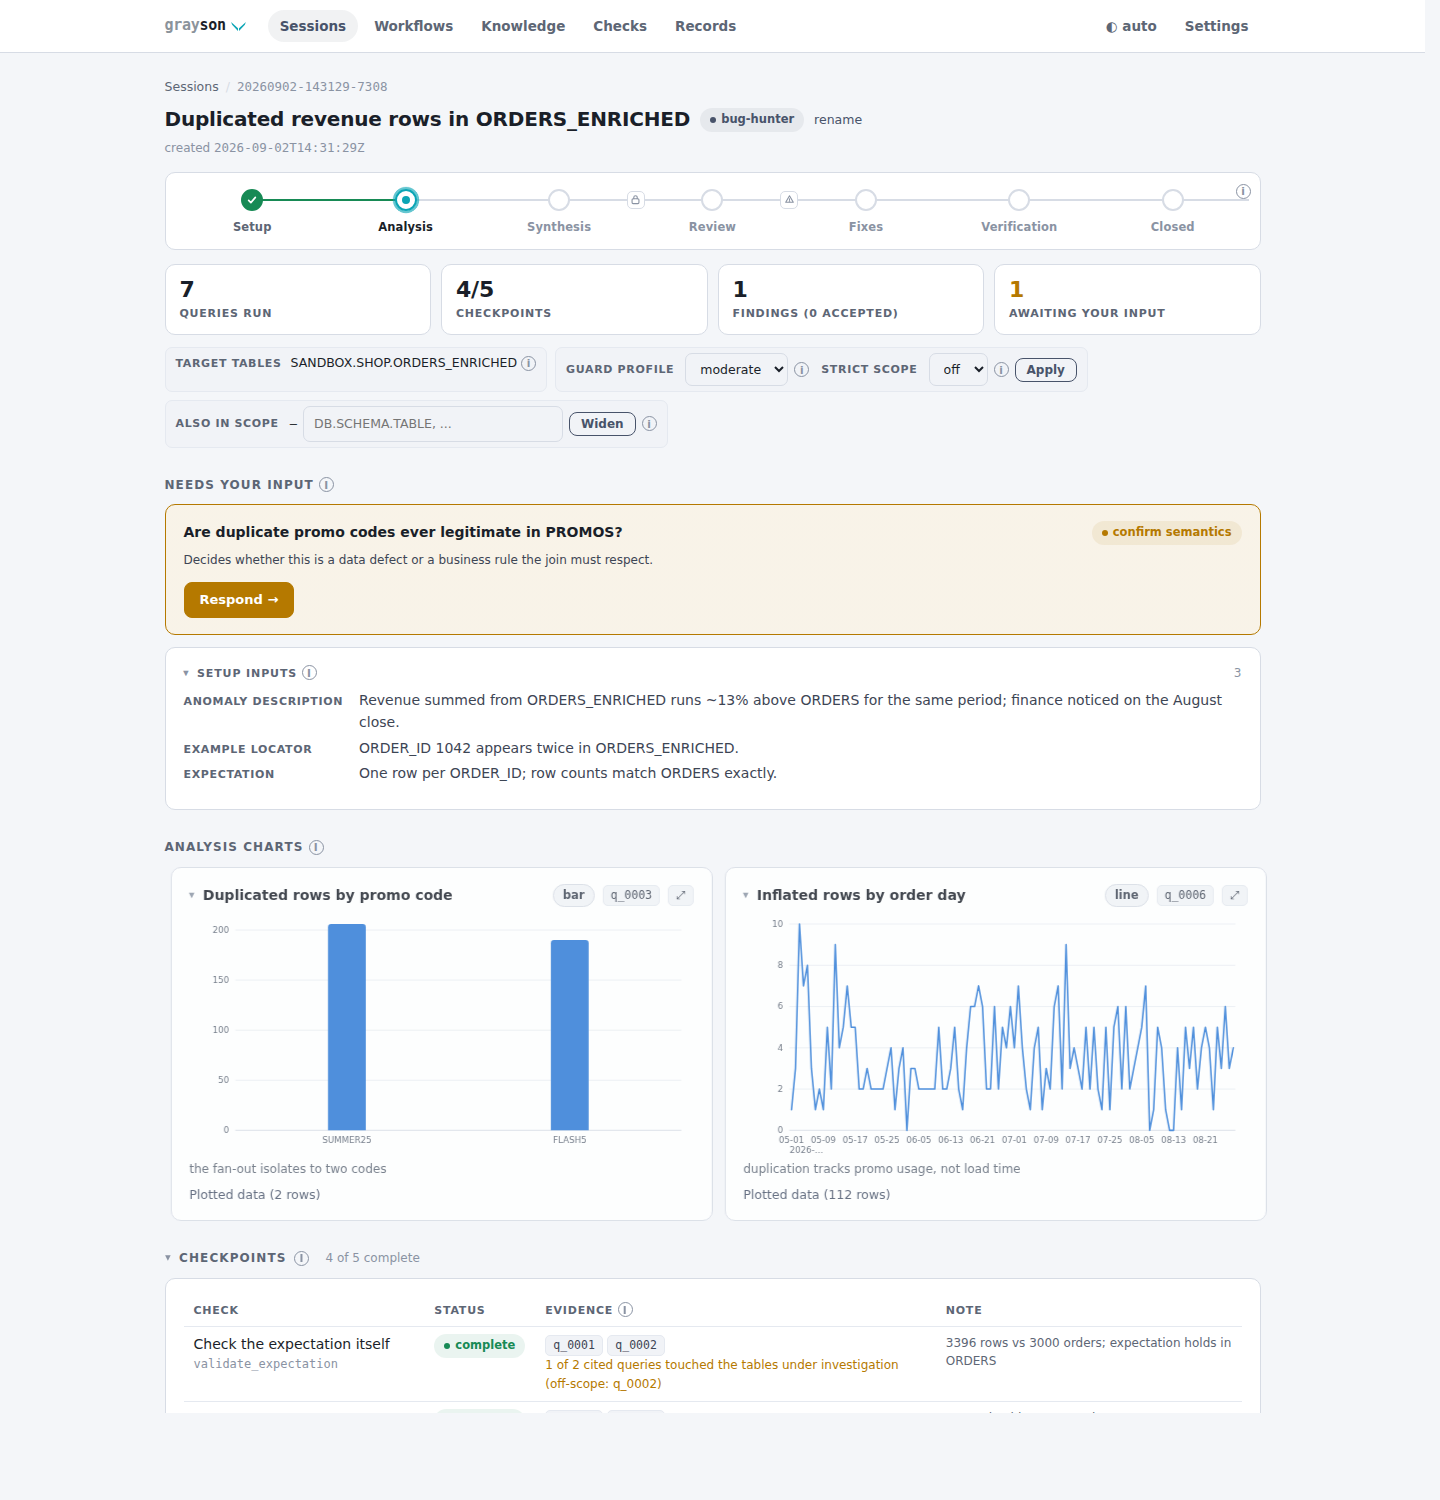
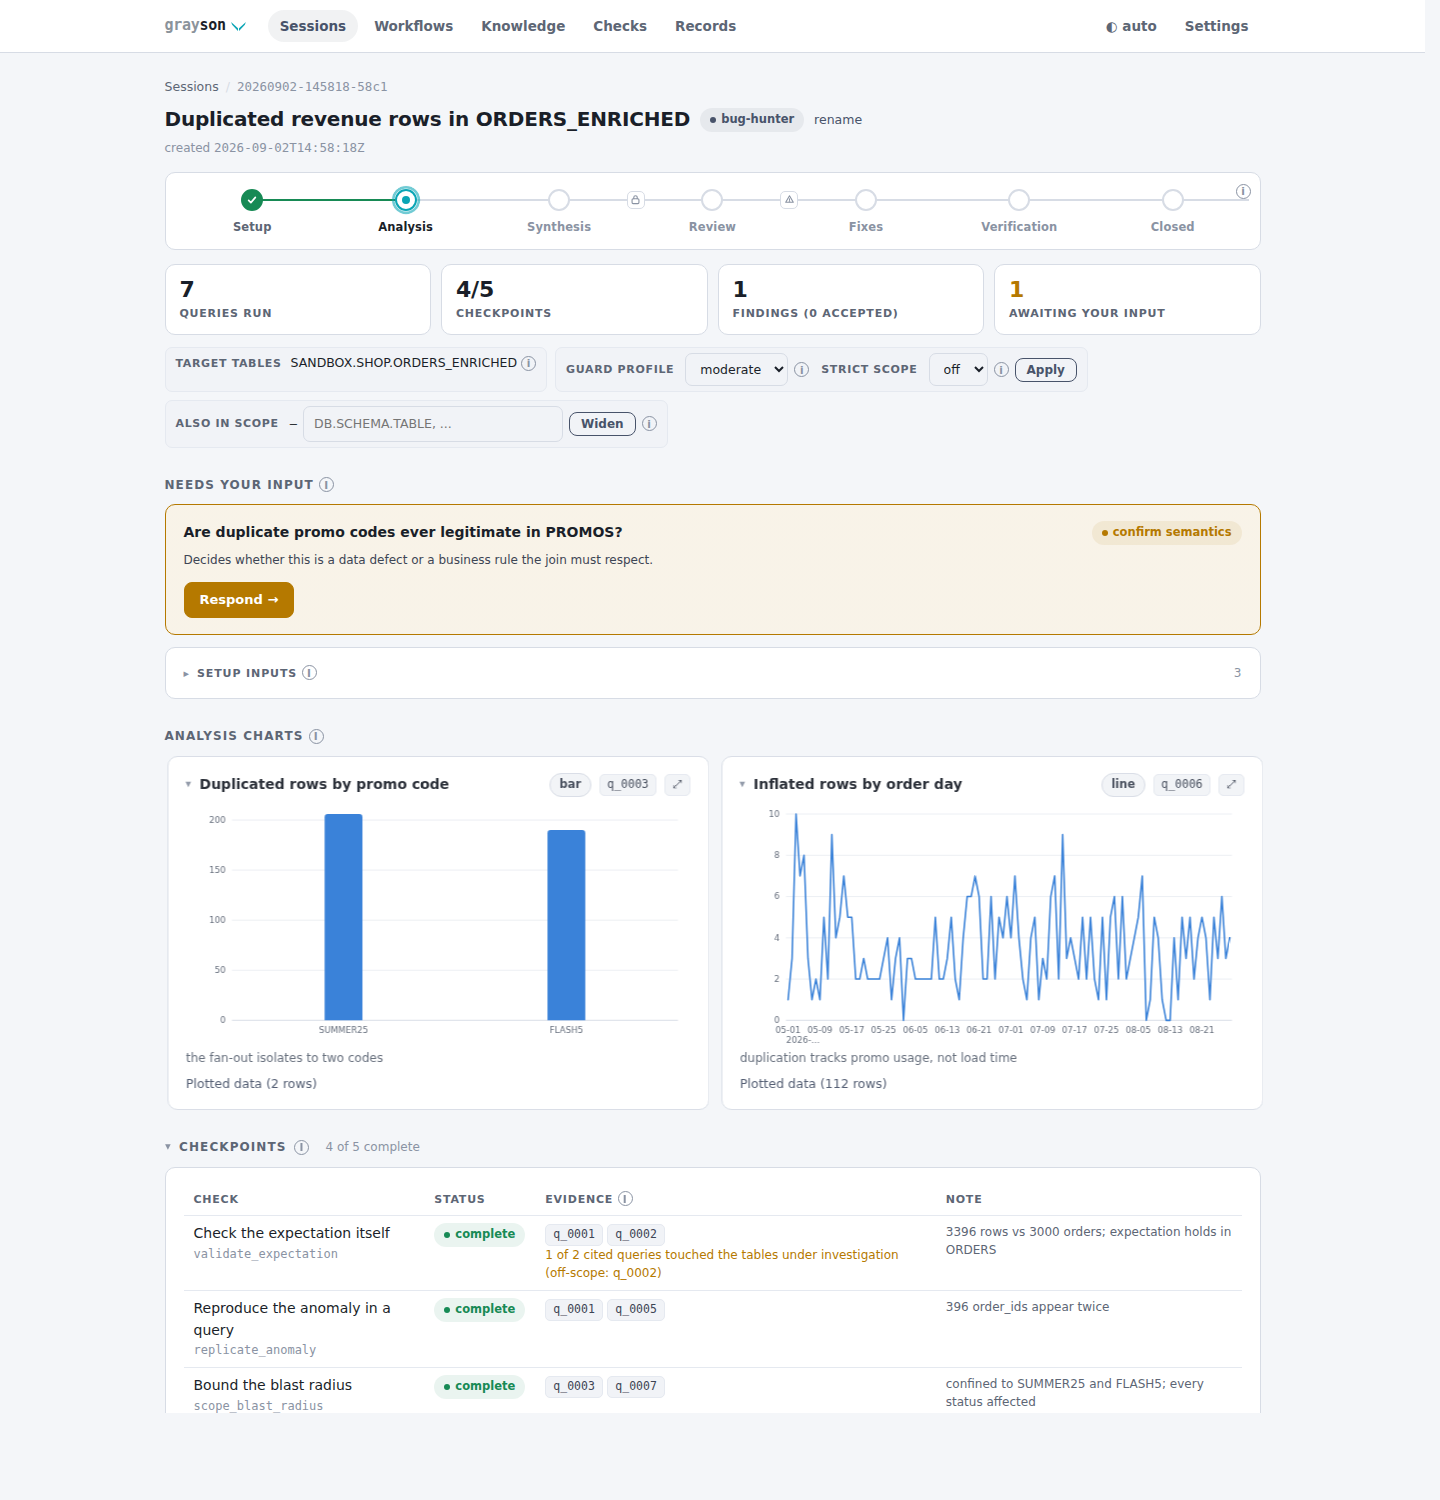
Setup inputs start folded
Read once at the start of a session; the charts and checkpoints below
matter more on every later look. A manual open is still remembered.

Claude-Session: https://claude.ai/code/session_01TptRa2r119ZPVfkNQba6Qv

diff --git a/src/grayson/ui/templates/session.html b/src/grayson/ui/templates/session.html
@@ -133,8 +133,9 @@
 
 {% if setup_inputs %}
 {# what the session was set up with: read once, then folded away. The fold is
-   remembered across the live refresh like the chart and finding tiles. #}
-<details class="card foldcard" id="setup" data-fold="setup" open>
+   remembered across the live refresh like the chart and finding tiles;
+   it starts closed, since it is read once and the tiles below matter more. #}
+<details class="card foldcard" id="setup" data-fold="setup">
   <summary class="chartsum">
     <span class="c-caret">▸</span>
     <span class="overline">Setup inputs {{ help("setup_inputs") }}</span>
